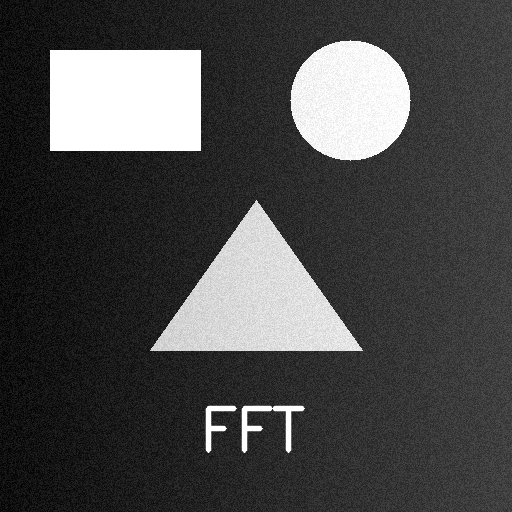
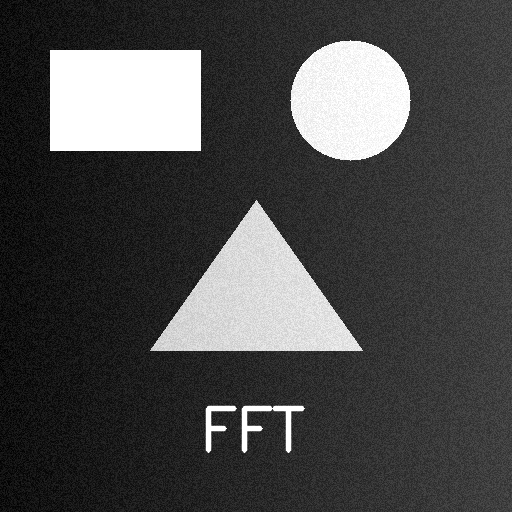
Increased blur value

diff --git a/week-3/blur.py b/week-3/blur.py
@@ -327,10 +327,10 @@ def main():
     )
     parser.add_argument('--image', type=str, default=None,
                         help='Path to input image (uses generated sample if not provided)')
-    parser.add_argument('--sigma', type=float, default=2.0,
-                        help='Gaussian blur sigma (default: 2.0)')
-    parser.add_argument('--kernel-size', type=int, default=11,
-                        help='Kernel size, must be odd (default: 11)')
+    parser.add_argument('--sigma', type=float, default=5.0,
+                        help='Gaussian blur sigma (default: 5.0)')
+    parser.add_argument('--kernel-size', type=int, default=21,
+                        help='Kernel size, must be odd (default: 21)')
     parser.add_argument('--no-display', action='store_true',
                         help='Skip visualization, only print metrics')
     
